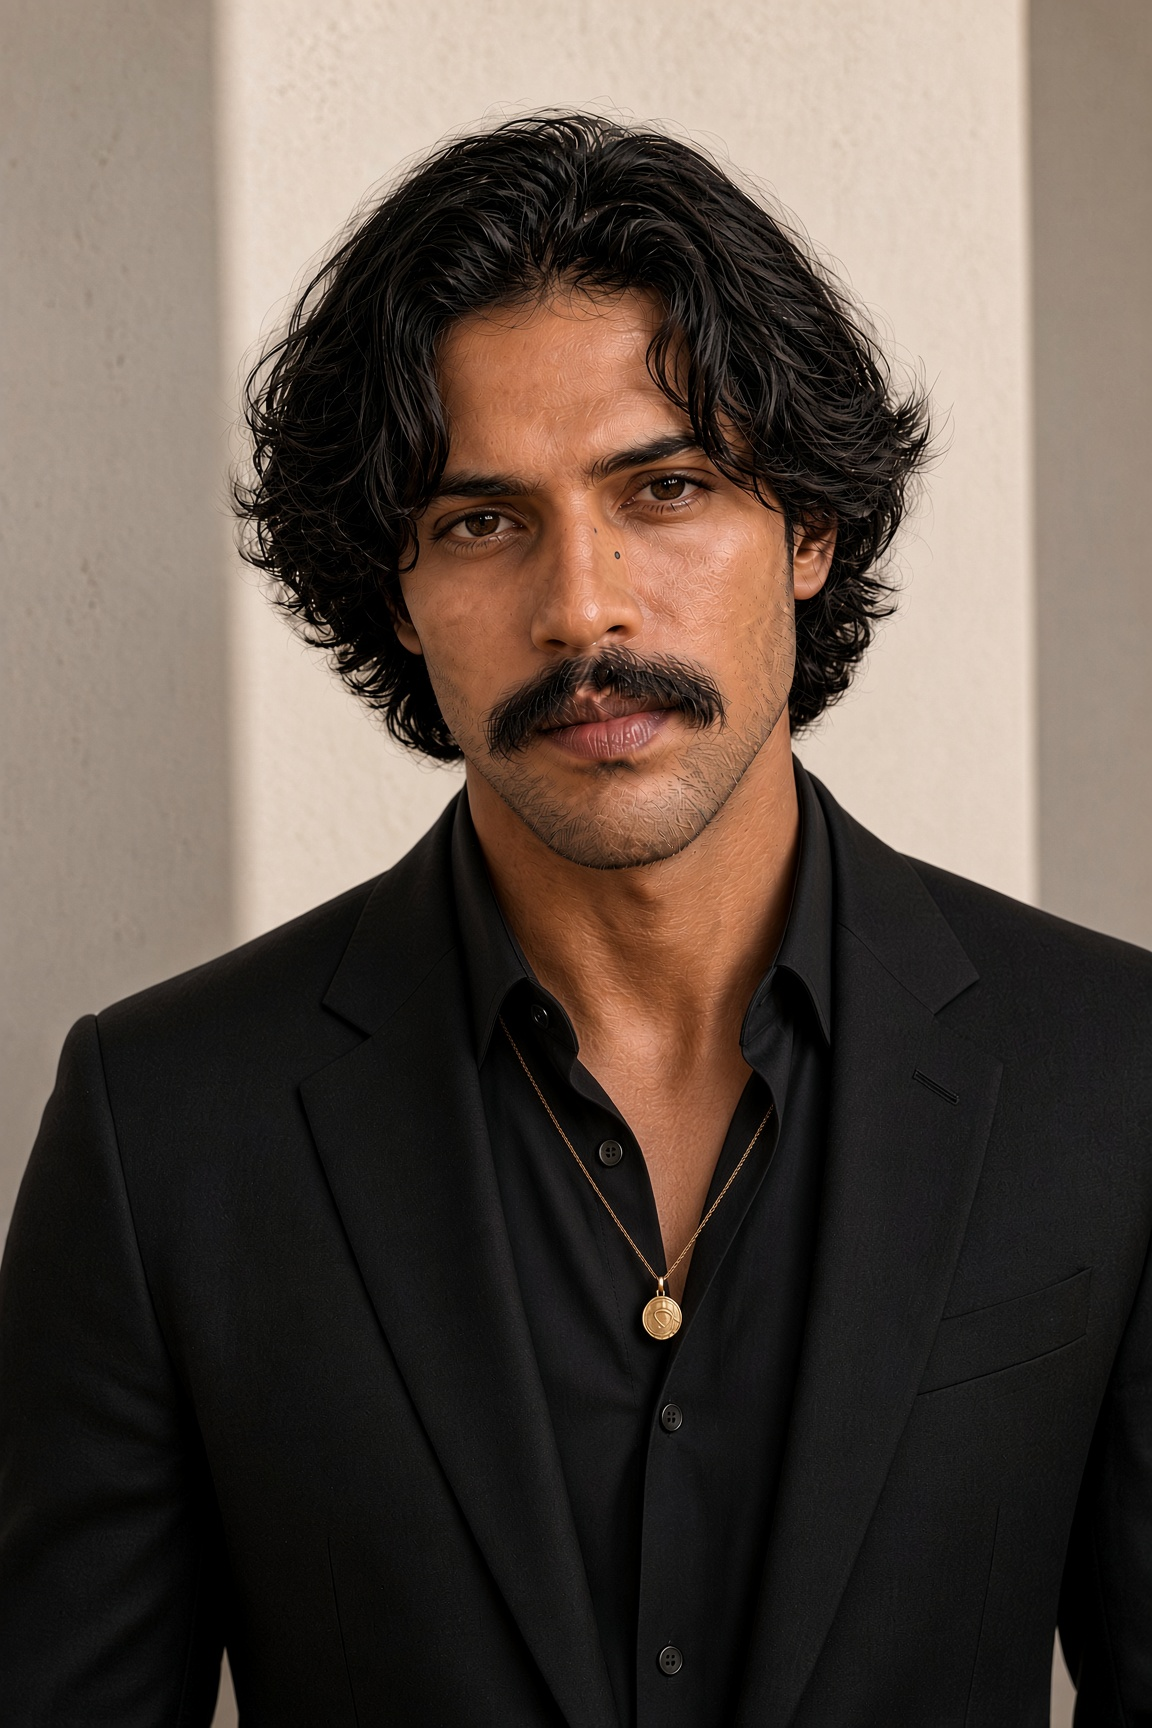
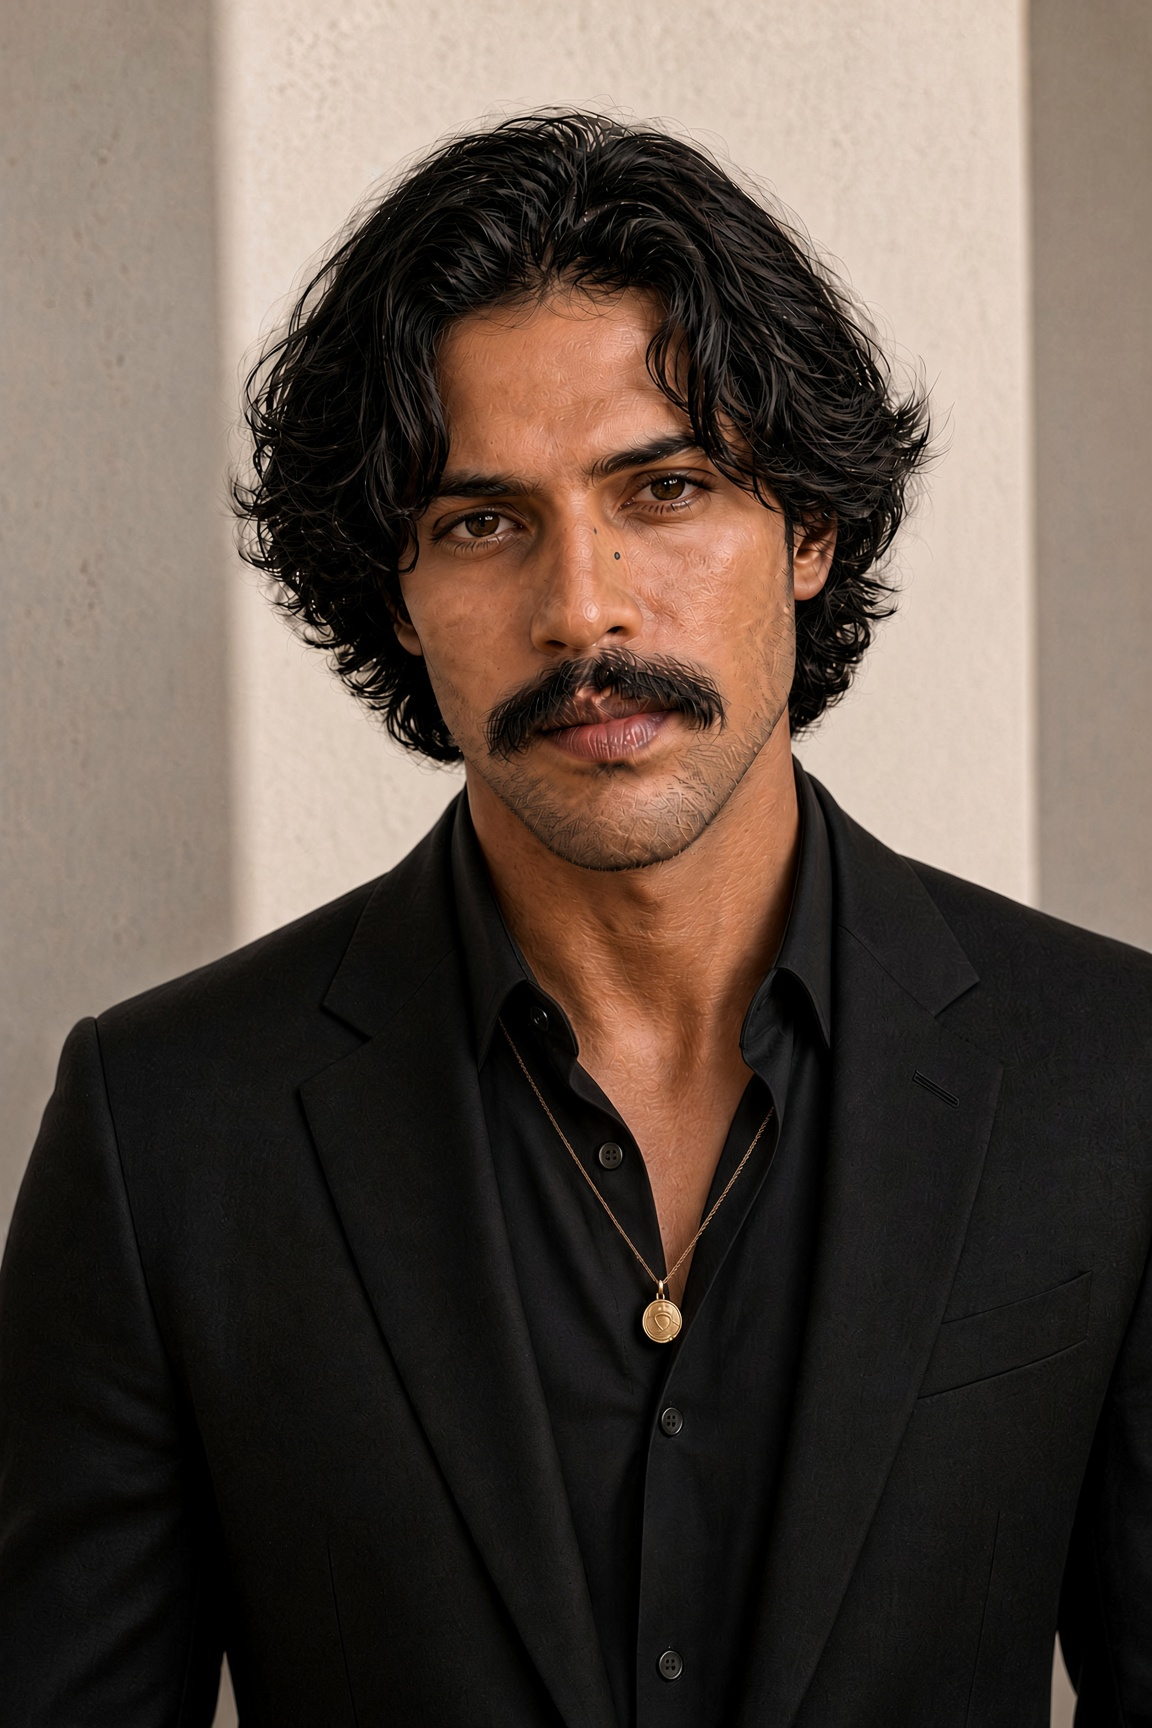
Limpa levemente a pele da foto de cima da home.
A foto de baixo não muda.

diff --git a/index.html b/index.html
@@ -15,7 +15,7 @@
 <meta property="og:url" content="https://akashahub.com.br/"/>
 <meta property="og:image" content="https://res.cloudinary.com/dcbarseus/image/upload/v1771197016/IMG_20260104_135834_828_etfko2.png"/>
 <link rel="icon" href="https://res.cloudinary.com/dcbarseus/image/upload/v1771197016/IMG_20260104_135834_828_etfko2.png"/>
-<link rel="preload" as="image" href="/img/lua-home-salon.jpg?v=yan10"/>
+<link rel="preload" as="image" href="/img/lua-home-salon.jpg?v=yan11"/>
 <link rel="prefetch" href="/converse/"/>
 <link rel="preconnect" href="https://jsonmxbuzagmwuucruem.supabase.co" crossorigin/>
 <link href="https://fonts.googleapis.com" rel="preconnect"/>
@@ -600,7 +600,7 @@
       </div>
     </div>
     <div class="hero-portrait reveal">
-      <img alt="Yan Filipe, mentor do Akasha Hub" src="/img/lua-home-salon.jpg?v=yan10"/>
+      <img alt="Yan Filipe, mentor do Akasha Hub" src="/img/lua-home-salon.jpg?v=yan11"/>
       <img class="gaze" alt="" aria-hidden="true" src="/img/lua-home-beyond.jpg?v=yan10" fetchpriority="low"/>
     </div>
   </div>
